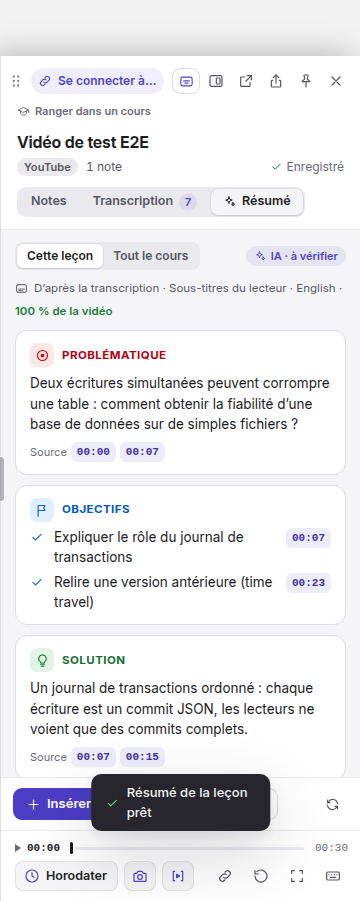
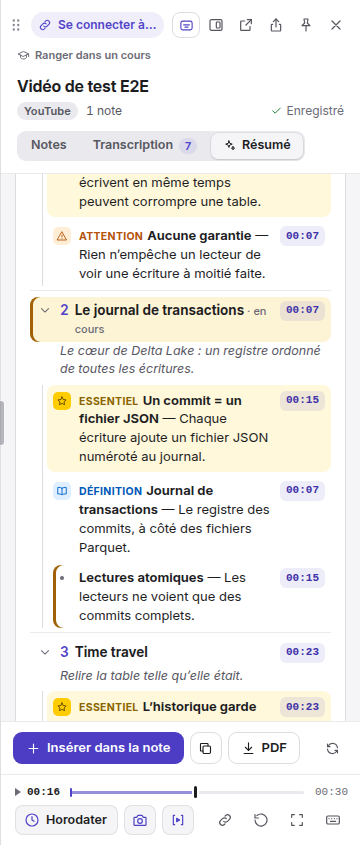
Docs and renders: detailed plan, summary PDFs, the Notion vault
- README, NOTION, ARCHITECTURE, DESIGN: the plan's points explained
  (Essentiel, Définition, Exemple, Attention; « Titres | Détaillé »), the
  summary alone as a PDF, and the vault — what is where (✨ Résumé IA,
  📝 Mes notes, 🎙 Transcription), the « Résumé IA » and
  « Transcription » columns, a course page opening on its summary.
- Screenshots: the Résumé tab and the course page with the detailed
  plan, a summary's PDF, and the vault (real pages written by the engine
  against the mock Notion API).
- A course page: each lesson's sentence goes under its line (Notion
  strikes a ticked line through: the sentence stays readable).

Claude-Session: https://claude.ai/code/session_01GxvafsP1QwiNAg3Ma8RC6t

diff --git a/src/shared/notion/engine.ts b/src/shared/notion/engine.ts
@@ -533,8 +533,14 @@ export function courseBlocks(course: string | null, rows: ReadonlyArray<CourseEn
         ? [{ type: 'mention', mention: { type: 'page', page: { id: r.pageId } } }]
         : plainRichText(`${KIND_EMOJI[r.kind]} ${r.title || 'Sans titre'}`);
       const state = r.status === 'done' ? STATUS_LABELS.done : r.status === 'doing' ? `${STATUS_LABELS.doing} · ${pct(Math.round(r.ratio * 10) / 10)}` : STATUS_LABELS.todo;
+      // Its sentence under it (a ticked line is struck through: the sentence stays readable).
       const about = lessonSynthesis.get(r.id);
-      out.push({ type: 'to_do', checked: r.status === 'done', rich: [...title, ...plainRichText(`  ${state}`, { color: 'gray' }), ...(about ? plainRichText(`\n${about}`, { italic: true, color: 'gray' }) : [])] });
+      out.push({
+        type: 'to_do',
+        checked: r.status === 'done',
+        rich: [...title, ...plainRichText(`  ${state}`, { color: 'gray' })],
+        ...(about ? { children: [{ type: 'paragraph', color: 'gray', rich: plainRichText(about, { italic: true }) }] } : {}),
+      });
     }
   }
   return out;

diff --git a/tests/unit/notion.test.ts b/tests/unit/notion.test.ts
@@ -467,12 +467,14 @@ describe('Le coffre Notion : résumés IA, notes et transcription, chacun à sa 
       'divider: ',
       'heading_2: Lakehouse',
       'paragraph: Pourquoi un lakehouse.',
-      'to_do: @Leçon 1  À commencer\nCe que dit la leçon 1.',
+      'to_do: @Leçon 1  À commencer',
       'heading_2: Delta Lake',
       'paragraph: Des fichiers aussi sûrs qu’une base.',
-      'to_do: @Leçon 2  À commencer\nCe que dit la leçon 2.',
+      'to_do: @Leçon 2  À commencer',
     ]);
     expect(content[4].children!.map((b) => b.text)).toEqual(['Comprendre le lakehouse  · chapitre 1']);
+    // Each lesson's sentence under it.
+    expect(content[9].children!.map((b) => b.text)).toEqual(['Ce que dit la leçon 1.']);
     // Unchanged: not written again.
     const writes = mock.state.requests.length;
     await notion.courseSummaryChanged('Databricks');

diff --git a/README.md b/README.md
@@ -34,17 +34,28 @@ tableau de votre page.
     cite du texte de la page (bulle « Citer » ou `Alt+Shift+T` sur une sélection, même à côté d’une
     vidéo), qu’on capture ou qu’une réponse est cherchée.
 - **Résumé du cours** (onglet **Résumé** du panneau) : l’IA lit **toute la transcription** et en
-  tire la **problématique**, les **objectifs**, la **solution** et le **plan du cours hiérarchisé**
-  (parties › points › détails), chaque idée avec les **instants cliquables** d’où elle vient (un
-  instant cité qui n’existe pas dans la transcription est écarté) ; la partie en cours de lecture
-  est surlignée. Une longue vidéo est lue **par parties** (chacune en entier), puis réunie.
-  « **Insérer dans la note** » l’écrit en tête de la note (bloc repliable `> [!summary]`, qui part
-  avec elle vers Notion, l’app Desktop, le PDF) ; « Copier », « Régénérer » ; « à mettre à jour »
+  tire la **problématique**, les **objectifs**, la **solution** et le **plan du cours détaillé** :
+  chaque partie avec une phrase sur ce qu’elle apporte et ses **3 à 5 points les plus importants**,
+  du plus important au moins important, chacun **expliqué en 1 à 2 phrases** — un point
+  **★ Essentiel** par partie (surligné), les autres marqués **Définition**, **Exemple** (sa commande
+  recopiée en code) ou **Attention** (un piège) ; chaque idée avec les **instants cliquables** d’où
+  elle vient (un instant cité qui n’existe pas dans la transcription est écarté) ; le point en cours
+  de lecture est surligné. « **Titres | Détaillé** » au-dessus du plan (Détaillé par défaut, le
+  choix est retenu). Une longue vidéo est lue **par parties** (chacune en entier), puis réunie.
+  « **Insérer dans la note** » l’écrit en tête de la note (bloc repliable `> [!summary]`, plan
+  détaillé compris, qui part avec elle vers l’app Desktop et le PDF) ; « **PDF** » télécharge le
+  résumé seul (chaque instant est un lien vers la vidéo) ; copier, régénérer ; « à mettre à jour »
   quand la transcription a grandi. **Tout le cours** : chaque leçon rangée dans le cours est lue en
   entier, puis le cours entier — d’après **toutes ses transcriptions lues ensemble** quand elles
   tiennent dans une requête (Gemini, Claude, OpenRouter…), sinon d’après les résumés des leçons ;
-  sa **page en grand** (chapitres › leçons › parties, chaque instant ouvre la leçon à ce moment) ;
-  le **PDF du cours** commence par ce résumé.
+  sa **page en grand** (chapitres › leçons › parties › points, chaque instant ouvre la leçon à ce
+  moment) ; « **PDF du résumé** » (le résumé seul) ou « **PDF du cours** » (le résumé, puis chaque
+  leçon, ses notes et sa transcription).
+- **Le coffre Notion centralise tout** : chaque leçon y a sa page en trois parties — **✨ Résumé
+  IA** (problématique, objectifs, solution en encadrés de couleur, plan détaillé), **📝 Mes notes**,
+  **🎙 Transcription** — ; chaque cours ouvre sa page sur **son résumé** ; le tableau « Toutes les
+  notes » gagne les colonnes **Résumé IA** (✨ À jour / ↻ À mettre à jour) et **Transcription**
+  (Complète / Partielle) pour retrouver tous les résumés d’un filtre. Voir [docs/NOTION.md](docs/NOTION.md).
 - **IA au choix, plusieurs gratuites** (options › IA) : l’**IA de Chrome** (sur l’appareil), les
   paliers gratuits de **Groq**, **OpenRouter** (modèles « :free »), **Google Gemini** (AI Studio),
   **Mistral** et **Cerebras** avec une clé gratuite, **Ollama** sur votre ordinateur, **Claude**
@@ -121,12 +132,18 @@ tableau de votre page.
 | --- | --- |
 | ![Mini (paroles)](docs/screenshots/mini.png) | ![Plein écran partagé](docs/screenshots/fullscreen-split.png) |
 
-**Résumé** — d’après toute la transcription : problématique, objectifs, solution, plan hiérarchisé
-(instants cliquables) ; et le cours entier, en grand :
+**Résumé** — d’après toute la transcription : problématique, objectifs, solution, plan détaillé
+(dans chaque partie, ses points les plus importants expliqués ; instants cliquables) ; le cours
+entier, en grand ; le résumé en PDF :
 
-| Onglet Résumé d’une leçon | Résumé du cours (page en grand) |
-| --- | --- |
-| ![Onglet Résumé](docs/screenshots/panel-summary.png) | ![Résumé du cours](docs/screenshots/course-summary.png) |
+| Onglet Résumé d’une leçon | Résumé du cours (page en grand) | Le résumé en PDF |
+| --- | --- | --- |
+| ![Onglet Résumé](docs/screenshots/panel-summary.png) | ![Résumé du cours](docs/screenshots/course-summary.png) | ![Résumé en PDF](docs/screenshots/summary-pdf.png) |
+
+**Le coffre Notion** — vos notes, les résumés IA et les transcriptions, chacun à sa place (pages
+réelles écrites par Boo Notes) :
+
+![Le coffre Notion](docs/screenshots/notion-vault.png)
 
 **Mode lecture** — un article : le passage cité est surligné dans la page et relié à sa note ;
 la bulle « Citer » suit la sélection ; `[[Résistance électrique]]` relie une fiche.
@@ -276,7 +293,7 @@ elle est connectée.
 | **Mini (paroles)** | Widget translucide (verre dépoli, opacité réglable) : réplique en cours, traduction, voisines ; épingle = fenêtre **Document Picture-in-Picture** toujours au-dessus ; ⤢ / double-clic = panneau complet, prêt à écrire. |
 | **Écran partagé** | Ancré et en plein écran, la vidéo (tout le lecteur en plein écran) est réduite pour tenir à côté des notes, quel que soit leur bord — seules les propriétés CSS `scale` / `translate` du lecteur sont posées, puis retirées. En plein écran : 70 / 30 par défaut, séparateur à tirer (double-clic : 70 / 30). |
 | **Côte à côte (fenêtres)** | *Désactivé (`TILING_ENABLED = false`).* La fenêtre de la vidéo et celle des notes se partagent la zone de travail de l’écran (`screen.availLeft/Top/Width/Height`), frontière commune suivie par `chrome.windows.onBoundsChanged`, état d’avant rendu à la sortie. |
-| **Résumé** | Onglet du panneau : cartes Problématique (rouge) · Objectifs (bleu) · Solution (vert), plan en arbre repliable (violet) dont la partie en cours est surlignée ; états avant / pendant (étapes, plan qui grandit, attente d’un palier gratuit, « Arrêter ») / transcription partielle / à mettre à jour ; page du cours en grand (leçons et leur état sur le côté). |
+| **Résumé** | Onglet du panneau : cartes Problématique (rouge) · Objectifs (bleu) · Solution (vert), plan repliable (violet) — « Titres \| Détaillé » : chaque partie, sa phrase en italique, ses points expliqués (★ Essentiel sur fond jaune, Définition bleue, Exemple vert et sa commande, Attention orange), le point en cours surligné ; états avant / pendant (étapes, plan qui grandit, attente d’un palier gratuit, « Arrêter ») / transcription partielle / à mettre à jour ; pied « Insérer dans la note · copier · PDF · régénérer » ; page du cours en grand (leçons et leur état sur le côté, « PDF du résumé », « PDF du cours »). |
 | **Réglages** | Façon « Réglages système » : navigation latérale, interrupteurs, contrôles segmentés, choix visuel de la disposition, écran de bienvenue en 3 étapes. |
 
 Détails : [docs/ARCHITECTURE.md](docs/ARCHITECTURE.md) · design & contrastes : [docs/DESIGN.md](docs/DESIGN.md).
@@ -356,10 +373,12 @@ sans IA prête (une ligne), puis l’API Claude simulée — clé, modèle, tran
 sans horodatage où vont une capture et une citation de la page ; sortie d’un bloc par `Entrée` ; la
 vidéo qui continue de jouer ; section IA des options), et le **résumé** (un service compatible
 OpenAI simulé, palier gratuit : sa limite attendue, toute la transcription envoyée, problématique,
-objectifs, solution, plan hiérarchisé, instant inventé écarté, instant cliqué, insertion en tête de
-note puis remplacement ; le cours entier — chaque leçon lue, toutes les transcriptions ensemble,
-leçon sans transcription signalée, page en grand, mise à jour de la seule leçon changée, PDF qui
-commence par le résumé ; options › IA : les paliers gratuits et leur lien « Créer une clé
+objectifs, solution, plan détaillé — un point Essentiel par partie, définition, piège, exemple et sa
+commande, « Titres | Détaillé » retenu —, instant inventé écarté, instant cliqué, insertion en tête
+de note (plan détaillé compris) puis remplacement, PDF du résumé seul et ses liens ; le cours entier
+— chaque leçon lue, toutes les transcriptions ensemble, leçon sans transcription signalée, page en
+grand, mise à jour de la seule leçon changée, PDF du résumé, PDF du cours qui commence par le
+résumé ; options › IA : les paliers gratuits et leur lien « Créer une clé
 gratuite », une adresse compatible OpenAI vérifiée, ses modèles listés).
 
 ```

diff --git a/docs/ARCHITECTURE.md b/docs/ARCHITECTURE.md
@@ -46,7 +46,7 @@
 | **Diagnostic** | `src/diagnostic/index.ts` | Rapport « Diagnostic de cette page » (clic droit sur l’icône, ou aide du panneau) : le SW (`src/background/diagnostic.ts`) sonde chaque cadre lisible de l’onglet (`chrome.scripting`, monde isolé et monde de la page : cadres, médias, API SCORM, agent), interroge le script de la page et les droits ; `src/shared/diagnostic.ts` en tire un constat en clair et un texte à copier. |
 | **Questions et notes libres** | `src/panel/blocks.ts`, `src/panel/answers.ts` | Le **+** au survol d’une ligne et son menu (Question, Note libre, Note normale), l’apparence et la numérotation des blocs (callouts `> [!question]` / `> [!note]`, format dans `src/shared/callouts.ts`) ; la réponse d’une question cherchée dans le cours sans toucher à la vidéo : transcription, texte du cours de l’onglet (requête `course:text` : `chrome.scripting` dans chaque cadre lisible, `src/shared/course-text.ts`), notes du cours ; classement BM25 et requête à l’IA choisie (`src/shared/qa.ts`, `src/shared/ai-client.ts`). Voir [QUESTIONS.md](QUESTIONS.md). |
 | **IA (fournisseurs)** | `src/shared/ai-providers.ts`, `src/shared/ai-client.ts`, `src/shared/qa-config.ts` | Le registre : IA de Chrome (`src/shared/chrome-ai.ts`), paliers gratuits Groq, OpenRouter (modèles « :free »), Google Gemini, Mistral, Cerebras, Ollama local, Claude, adresse compatible OpenAI — adresse, clé, conditions du palier gratuit, où créer une clé, modèles suggérés, **caractères de transcription par requête** (`budget`) et **pause entre deux requêtes** (`gapMs`, le rythme du palier). Une requête « chat completions » (ou Messages pour Claude) ; un 429 attendu comme le service l’indique (`retry-after`, « try again in 7.66s », `retryDelay`), au plus 5 fois ; « trop longue » signalée (413, contexte dépassé) pour lire en parties plus petites ; les modèles listés (OpenRouter : gratuits seulement ; embeddings, voix, images écartés). Une clé par fournisseur, gardée quand on en choisit un autre ; l’ancien réglage Claude repris. |
-| **Résumé** | `src/shared/summary.ts`, `src/shared/summarizer.ts`, `src/panel/summary-view.ts`, `src/panel/summary-render.ts`, `src/summary/` | **Leçon** : la transcription en répliques (`c12`, une phrase environ, son instant), lue **en entier** — en une requête si elle tient dans le `budget` du fournisseur, sinon par parties (le plan et les phrases clés de chacune), puis réunies ; problématique, objectifs, solution, plan (3 niveaux) ; chaque instant cité est une réplique donnée (les autres écartés) ; une réponse illisible redemandée une fois. **Cours** : chaque leçon rangée lue en entier (celles résumées d’après la même transcription gardées), puis la synthèse du cours — avec **toutes les transcriptions** quand elles tiennent en une requête (`full`), sinon d’après les résumés des leçons. Onglet « Résumé » du panneau, page du cours (`summary/summary.html`), bloc `> [!summary]` en tête de la note, première partie du PDF du cours. |
+| **Résumé** | `src/shared/summary.ts`, `src/shared/summarizer.ts`, `src/panel/summary-view.ts`, `src/panel/summary-render.ts`, `src/summary/` | **Leçon** : la transcription en répliques (`c12`, une phrase environ, son instant), lue **en entier** — en une requête si elle tient dans le `budget` du fournisseur, sinon par parties (le plan et les phrases clés de chacune), puis réunies ; problématique, objectifs, solution, plan détaillé (2 à 7 parties, chacune son `intro` et ses 3 à 5 points les plus importants : `detail`, `kind` — essentiel, une fois par partie ; définition ; exemple et son `code` ; attention ; point —, demandés par le schéma JSON et vérifiés à la lecture) ; chaque instant cité est une réplique donnée (les autres écartés) ; une réponse illisible redemandée une fois. **Cours** : chaque leçon rangée lue en entier (celles résumées d’après la même transcription gardées), puis la synthèse du cours — avec **toutes les transcriptions** quand elles tiennent en une requête (`full`), sinon d’après les résumés des leçons. Onglet « Résumé » du panneau (« Titres \| Détaillé », retenu dans `localStorage`), page du cours (`summary/summary.html`), bloc `> [!summary]` en tête de la note (`planMarkdown` : ★ / 📘 / 💡 / ⚠), PDF du résumé seul (`summary:pdf`, `course:summary-pdf` : `lessonDocument`, sans couverture ; les étiquettes en couleur, les marques n’étant pas dans les polices du PDF), première partie du PDF du cours, section « ✨ Résumé IA » des pages Notion (`lessonSummaryBlocks`, `courseBlocks`). |
 | **Document hors écran** | `src/offscreen/pdf.ts` | Mise en page des PDF (`src/shared/pdf-notes.ts`, pdf-lib) : le service worker (`src/background/pdf.ts`) rassemble les notes (pour un cours : ses leçons, dans l’ordre des chapitres, et leurs transcriptions) et leurs images, l’ouvre le temps d’un export (`chrome.offscreen`) puis télécharge le résultat. La bibliothèque PDF reste ainsi hors du service worker, que Chrome relance souvent. |
 
 La logique pure est dans `src/shared/` et couverte par les tests unitaires. **Boo Notes Desktop**
@@ -220,7 +220,7 @@ macOS Option).
 | `notion:course:<clé>` | page d’un cours dans le coffre (`course:<titre normalisé>`, `unfiled` : notes à ranger) et blocs écrits |
 | `notion:pending` | notes à écrire dans Notion (application fermée) |
 | `qa:config` | l’IA des questions et des résumés : le fournisseur choisi et, pour chacun, `{ key, model, base? }` ; jamais synchronisé |
-| `summary:<noteId>` | résumé d’une leçon : problématique, objectifs, solution `{ text, at[] }`, plan `{ title, at, children }`, la transcription lue (`basis` : répliques, fin, complète — « à mettre à jour » quand elle change), fournisseur, modèle, parties |
+| `summary:<noteId>` | résumé d’une leçon : problématique, objectifs, solution `{ text, at[] }`, plan `{ title, at, intro?, children: [{ title, at, detail, kind, code? }] }` (un résumé d’avant : titres seuls), la transcription lue (`basis` : répliques, fin, complète — « à mettre à jour » quand elle change), fournisseur, modèle, parties |
 | `course-summary:<cours normalisé>` | résumé d’un cours : problématique, objectifs (avec leur chapitre), solution, chapitres › leçons (synthèse, état), transcription lue de chaque leçon, `full` (toutes lues ensemble) |
 | `desktop:titles` | titres de la bibliothèque Desktop (complétion `[[`) |
 | `desktop:courses` | cours et chapitres de la bibliothèque Desktop (classement depuis le panneau) |

diff --git a/docs/NOTION.md b/docs/NOTION.md
@@ -131,6 +131,8 @@ Ce qui se lit d’un coup d’œil, rien de plus :
 | Type | Vidéo · Audio · PDF · Texte · Image · Page web · Fiche |
 | Plateforme | YouTube · Udemy · Coursera · Notion · Web · Fichier local |
 | Source | Lien de la leçon, de la vidéo ou de la page (vide pour un fichier local) |
+| Résumé IA | ✨ À jour · ↻ À mettre à jour (la transcription a changé depuis) · vide : pas de résumé — filtrez « n’est pas vide » : tous les résumés du coffre |
+| Transcription | Complète · Partielle (sous-titres captés pendant la lecture) · vide : aucune |
 | Dernière activité | Date de la dernière note ou progression |
 | Liens / Liée depuis | Notes reliées par `[[Titre]]`, et l’inverse (tenu à jour par Notion) |
 | Boo ID | Identifiant de la note (utilisé par Boo Notes, ne pas modifier) |
@@ -139,12 +141,35 @@ Les tables des premières versions gardent leurs autres colonnes (Position, Note
 Prochaine révision), toujours remplies. Idées de vues : **par cours** (groupé par *Cours*), **« En
 cours »** (Statut), **Kanban** par Statut, **galerie** par Type.
 
+## Le coffre : notes, résumés IA, transcriptions
+
+Le coffre range trois sortes de contenus, chacune reconnaissable à son titre :
+
+| | Où | Quoi |
+| --- | --- | --- |
+| ✨ **Résumé IA** | en tête de la page de chaque leçon ; en tête de la page de chaque cours | problématique, objectifs, solution, plan détaillé — généré par l’IA choisie dans Boo Notes, « à vérifier » |
+| 📝 **Mes notes** | sous le résumé, dans la page de la leçon | vos notes horodatées, questions, captures, passages |
+| 🎙 **Transcription** | à la fin de la page de la leçon, repliée | les sous-titres, chaque réplique liée à son instant |
+
+Le tableau « Toutes les notes » les relie : ses colonnes **Résumé IA** et **Transcription** disent
+ce que chaque leçon a ; un filtre sur « Résumé IA » liste tous les résumés. Un résumé fait (ou
+refait) dans Boo Notes — onglet Résumé, page du cours — réécrit la page de sa leçon, ou celle de son
+cours, à la synchronisation suivante (rien n’est réécrit s’il n’a pas changé). Quand la transcription
+a changé depuis, la page et le tableau disent « ↻ À mettre à jour ».
+
+![Le coffre Notion](screenshots/notion-vault.png)
+
+> Quand l’app **Boo Notes Desktop** écrit dans Notion à la place de l’extension, les résumés
+> n’arrivent dans Notion que par la note : « Insérer dans la note » (le bloc résumé part avec elle).
+
 ## Les pages des cours
 
 Une page par cours dans le coffre (📘), tenue à jour par Boo Notes : un résumé (nombre de leçons,
-de chapitres, terminées, progression du cours), puis **chaque chapitre** et **ses leçons** dans
-l’ordre où vous les avez commencées — une case cochée quand la leçon est terminée, un lien vers la
-note, son état. Une leçon rangée ailleurs quitte la page de l’ancien cours ; les notes rangées
+de chapitres, terminées, progression du cours), puis, quand le cours a été résumé, **✨ Résumé du
+cours** — sa problématique (encadré rouge), ses objectifs avec leur chapitre (bleu), sa démarche
+(vert) —, puis **chaque chapitre** (sa phrase de synthèse en gris) et **ses leçons** dans l’ordre
+où vous les avez commencées — une case cochée quand la leçon est terminée, un lien vers la note,
+son état, et sa phrase de synthèse dessous. Une leçon rangée ailleurs quitte la page de l’ancien cours ; les notes rangées
 nulle part sont dans **📥 Notes à ranger**. La progression y est arrondie à la dizaine : la page
 n’est pas réécrite à chaque minute regardée.
 
@@ -156,6 +181,12 @@ n’est pas réécrite à chaque minute regardée.
   étudiée (téléversée), ou un encadré « Fichier local : cours.pdf » — et, pour une note appuyée sur
   **plusieurs supports**, un en-tête par support (PDF, enregistrement de l’amphi, vidéo…), chaque
   repère renvoyant au sien.
+- Puis, quand la leçon a été résumée, **✨ Résumé IA** : qui l’a écrit et quand (« à vérifier ») ;
+  la **problématique** (encadré rouge 🎯), les **objectifs** (bleu 🚩), la **solution** (vert 💡) ;
+  puis **🗺 Plan du cours** : chaque partie numérotée avec son instant, sa phrase en italique, ses
+  points — le point **Essentiel** dans un encadré jaune ⭐, les autres marqués 📘 Définition,
+  💡 Exemple (sa commande dans un bloc de code), ⚠ Attention — chaque instant ouvre la vidéo. Puis
+  un séparateur et **📝 Mes notes** (le bloc résumé inséré dans la note n’y est pas répété).
 - Puis la note, **une ligne = un bloc** : `04:15` rouvre la vidéo à cet instant (l’extension gère
   `#t=` sur toutes les plateformes), `p. 12`, `§ 4`, `◉ 3` rappellent la page, le paragraphe ou le
   repère de l’image ; une **citation** d’article garde son lien `↗` qui rouvre la page *sur le
@@ -166,8 +197,8 @@ n’est pas réécrite à chaque minute regardée.
   surlignages avec leur couleur.
 - Un **passage** d’une vidéo (`[02:05–06:07]`) devient une image légendée « Passage 02:05–06:07 ·
   titre » (l’extrait enregistré reste dans le dossier de notes).
-- La **transcription** (sous-titres collectés pendant la lecture) termine la page, **repliée par
-  tranches de la vidéo** (« 00:00 – 12:30 · 100 répliques ») : la page reste courte, chaque tranche
+- La **transcription** (sous-titres collectés pendant la lecture ; après un séparateur quand la
+  page a son résumé) termine la page, **repliée par tranches de la vidéo** (« 00:00 – 12:30 · 100 répliques ») : la page reste courte, chaque tranche
   s’ouvre d’un clic ; une réplique par paragraphe — heure liée à l’instant de la vidéo, texte,
   traduction en italique, 💬 votre commentaire. Voir [TRANSCRIPTION.md](TRANSCRIPTION.md).
 - Une **Question** garde sa réponse compacte de l’IA, avec la mention « Réponse générée par IA — à

diff --git a/docs/DESIGN.md b/docs/DESIGN.md
@@ -86,8 +86,8 @@ visible) ou *flottant* : carte (rayon 14 px, ombre portée) posée où l’utili
 | Mini | 500×228 px par défaut, bas de la vidéo au-dessus de ses commandes ; verre `rgba(24,24,32,α)` (α 0,15–0,9, 0,55 par défaut) + flou 20 px saturé 1,4, rayon 16 px, filet blanc 22 %. Barre : « EN DIRECT · 04:12 » (10 px, 650, espacé), taille du texte **A− / A+** (aussi Ctrl + molette ou pincement, + / − au clavier ; retenue, options › Panneau), épingle (accent plein quand active), curseur d’opacité, ⤢, ×. Lignes, toutes proportionnelles à la taille choisie `--mini-size` (18 px par défaut, 12–48) : en cours 1× 650 blanc (ombre 1 px), traduction 0,86× italique `#cfc8ff`, précédente 0,72× blanc 50 % sur une ligne, puis **les suivantes à la suite** (jusqu’à 6, 0,76× avec leur traduction 0,66×, de plus en plus pâles, fondu en bas). À court de place, les suivantes se replient d’abord, puis la précédente disparaît entière ; agrandir le texte agrandit le widget s’il le faut (jamais l’inverse). Redimensionnable, 260×104 px minimum. |
 | Mini épinglé | Fenêtre Picture-in-Picture de document, fond `#17171e` (opaque : pas de curseur d’opacité), épingle active. |
 | Plein écran partagé | Vidéo 70 % / notes 30 % (40–85 % pour la vidéo), notes du côté de l’ancrage (haut / bas → droite) ; ligne « Échap : quitter le plein écran » (12 px, `--faint`) sous la barre d’outils. |
-| Résumé (onglet) | 3ᵉ onglet « ✦ Résumé ». Bascule « Cette leçon / Tout le cours » (segmenté 12 px) et pastille « ✦ IA · à vérifier » (accent doux). Cartes 12 px de rayon, bord `--border` : **Problématique** (titre en capitales 11,5 px, icône cible, rouge `#b0000f`), **Objectifs** (drapeau, bleu `#0058b8`, coches), **Solution** (ampoule, vert `#17702f`), **Plan du cours** (accent) : arbre 3 niveaux, numéros 1 / 1.1 / a, filet 1,5 px à gauche des sous-niveaux, chevron pour replier, partie en cours fond `--now-bg` + barre `--now-border` « · en cours ». Instants : puces mono 11 px `--ts-bg` / `--ts-text`, cliquables. États : vide (halo 54 px, puces des 4 parties, « Générer le résumé » pleine largeur, ligne « IA : … · changer »), en cours (barre de progression, étape, plan qui grandit, « Arrêter »), transcription partielle (bandeau `--warn-soft`), à mettre à jour (bandeau accent doux). Pied : « + Insérer dans la note » (accent plein), « Copier », ↻ (icône). |
-| Résumé du cours (page) | Barre du haut 56 px (Mettre à jour (n) · PDF · Copier) ; colonne de 300 px : leçons par chapitre avec leur état (✓ vert, ↻ accent, ⚠ orange, ◷ gris) et barre de progression verte ; à droite : titre 26 px, les trois cartes en grille, puis le plan : chapitres repliables › leçons (numéro accent, synthèse, durée, « ▶ Ouvrir ») › parties de la leçon dont chaque instant ouvre la leçon à ce moment. |
+| Résumé (onglet) | 3ᵉ onglet « ✦ Résumé ». Bascule « Cette leçon / Tout le cours » (segmenté 12 px) et pastille « ✦ IA · à vérifier » (accent doux). Cartes 12 px de rayon, bord `--border` : **Problématique** (titre en capitales 11,5 px, icône cible, rouge `#b0000f`), **Objectifs** (drapeau, bleu `#0058b8`, coches), **Solution** (ampoule, vert `#17702f`), **Plan du cours** (accent) : « Titres \| Détaillé » (segmenté 11,5 px, à droite du titre ; Détaillé par défaut, retenu) ; *Titres* : arbre, numéros 1 / 1.1 / a, ★ doré après le point essentiel ; *Détaillé* : chaque partie séparée par un filet, sa phrase en italique 12,5 px `--muted`, ses points sur un filet 1,5 px — pastille 18 px par sorte (★ jaune `#ffcc00`, livre bleu, ampoule verte, alerte orange ; point simple : un rond), étiquette en capitales 10,5 px de la même couleur, titre en gras puis l’explication, commande dans un bloc mono 12 px `--surface-2` ; le point essentiel sur fond jaune pâle ; chevron pour replier ; partie et point en cours : fond `--now-bg` + barre `--now-border` « · en cours ». Instants : puces mono 11 px `--ts-bg` / `--ts-text`, cliquables. États : vide (halo 54 px, puces des 4 parties, « Générer le résumé » pleine largeur, ligne « IA : … · changer »), en cours (barre de progression, étape, plan qui grandit, « Arrêter »), transcription partielle (bandeau `--warn-soft`), à mettre à jour (bandeau accent doux). Pied : « + Insérer dans la note » (accent plein), copier (icône), « ⤓ PDF », ↻ (icône) ; « Tout le cours » : « Ouvrir en grand », copier, « PDF », ↻. |
+| Résumé du cours (page) | Barre du haut 56 px (Mettre à jour (n) · PDF du résumé · PDF du cours · Copier) ; colonne de 300 px : leçons par chapitre avec leur état (✓ vert, ↻ accent, ⚠ orange, ◷ gris) et barre de progression verte ; à droite : titre 26 px, les trois cartes en grille, puis le plan : chapitres repliables › leçons (numéro accent, synthèse, durée, « ▶ Ouvrir ») › parties de la leçon et leurs points (mêmes styles que le panneau, « Titres \| Détaillé » commun) dont chaque instant ouvre la leçon à ce moment. |
 | Côte à côte (fenêtres) | *Désactivé (`TILING_ENABLED = false`) : ni puce ni entrées de menu.* Puce « Côte à côte » dans la fenêtre des notes (pleine accent quand active) ; menu « Répartition » : 4 vignettes 34 px (vidéo `--surface-2`, notes accent 75 %) + libellé 10 px, la choisie bordée 2 px accent ; « Quitter côte à côte ». |
 
 Panneau étroit (≤ 460 px) : « Mini » et « Côte à côte » gardent leur icône (nom en infobulle), les
